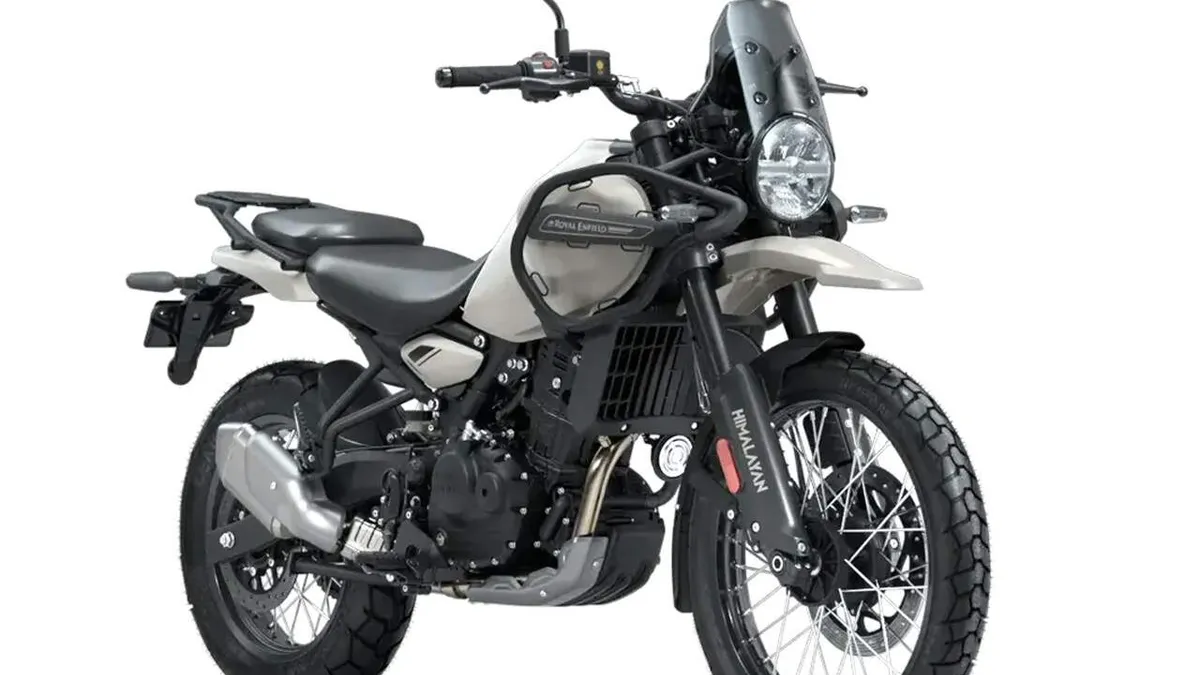
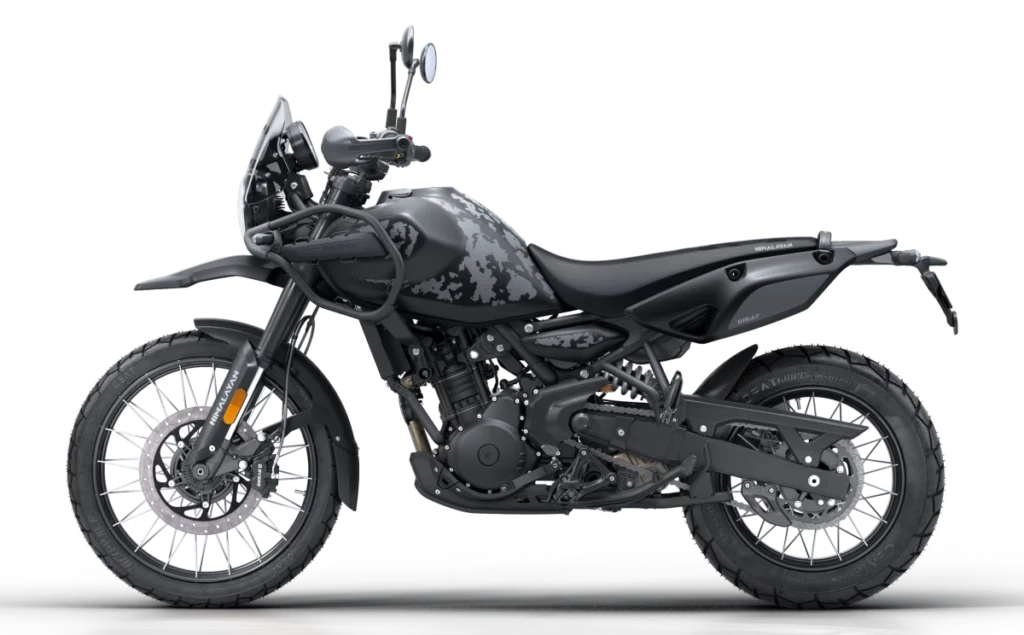
chore(content): finalizar publicação e imagem [force vercel] [publish-finalized]

diff --git a/content/posts/royal-enfield-himalayan-450-nova-cor-brasil.md b/content/posts/royal-enfield-himalayan-450-nova-cor-brasil.md
@@ -3,7 +3,7 @@ title: Royal Enfield Himalayan 450 ganha nova opção de cor no Brasil; veja det
 status: 🟢 Publicado
 date: 2026-09-30T08:13:00
 category: Notícias
-image: /images/blog/royal-enfield-himalayan-450-mana-black-1-1024x635.webp
+image: "/images/blog/royal-enfield-himalayan-450-nova-cor-brasil.webp"
 excerpt: A Royal Enfield amplia o catálogo da Himalayan 450 no mercado brasileiro com a introdução de uma nova pintura. Confira os detalhes técnicos do modelo e sua atuação no segmento trail.
 ---
 
